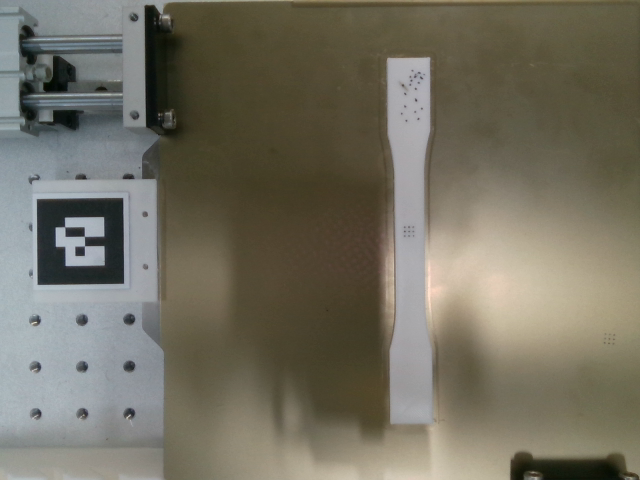
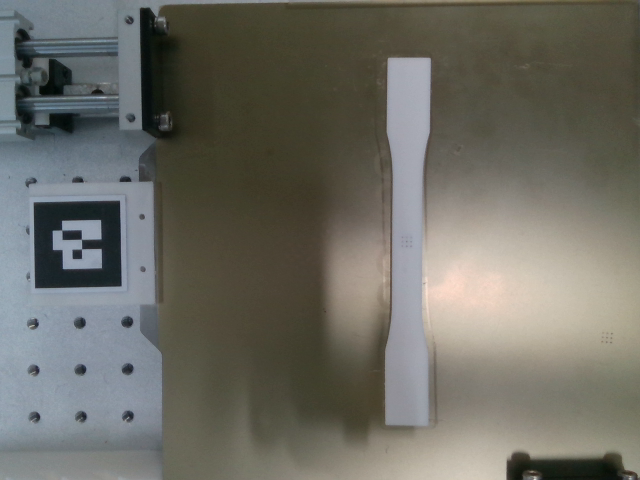
Cobot 작업 진행 완료(OMM 모니터링 추가) (21.05.18)

diff --git a/snu_idim_cobot/src/snu_drl_interface.py b/snu_idim_cobot/src/snu_drl_interface.py
@@ -741,7 +741,9 @@ class DeviceClass_Cobot():
                 waypoint_3_right2 = self.calcRelMove([-6, +10, 0, 0, 0, 0], True)
                 waypoint_3_down = self.calcRelMove([-6,  0, 20, 0, 0, 0], True)
                 waypoint_4 = self.calcRelMove([0, 0, -50, 0, 0, 0], True)
-                waypoint_5 = self.calcRelMove([200, 0, -50, 0, 0, 0], True)
+                waypoint_5 = self.calcRelMove([450, 0, -150, 0, 0, 0], True)
+                waypoint_6 = self.calcRelMove([0, 0, 0, 0, 0, 135], True)
+                waypoint_7 = self.calcRelMove([0, 0, 0, 0, -50, 0], True)
 
                 # movel(waypoint_1, ref=DR_TOOL, mod=DR_MV_MOD_REL)
                 # movej(posj(waypoint_1), mod=DR_MV_MOD_REL)
@@ -763,7 +765,10 @@ class DeviceClass_Cobot():
                 self.suction_cup_off();  rospy.sleep(1)
                 movel(waypoint_4, ref=DR_TOOL, mod=DR_MV_MOD_REL)
                 movel(waypoint_5, ref=DR_TOOL, mod=DR_MV_MOD_REL)
-                movej(Q_TOP_PLATE)
+                movel(waypoint_6, ref=DR_TOOL, mod=DR_MV_MOD_REL)
+                movel(waypoint_7, ref=DR_TOOL, mod=DR_MV_MOD_REL)
+                #movej(Q_TOP_PLATE)
+
                 self.ARupdateParam(-0.12, 0.0, 0.25, rx=180.0, ry=0.0, rz=180.0)
             
 
@@ -1223,6 +1228,8 @@ class DeviceClass_Cobot():
             self.logging("10010 command Bed: {}, Stage: {}".format(tag_id_bed, tag_id_stage))
             if tag_id_stage != None and tag_id_bed != None:
                 self.moveBedFromRobotToStage(tag_id_bed=tag_id_bed, tag_id_stage=tag_id_stage)
+
+            
 
         # Task [-10010]: "TASK_3DP_BED_OUT" - (3DP-#1~4 Bed) Printer -> Jig 
         elif(self.cmd_protocol == TASK_3DP_BED_OUT):
